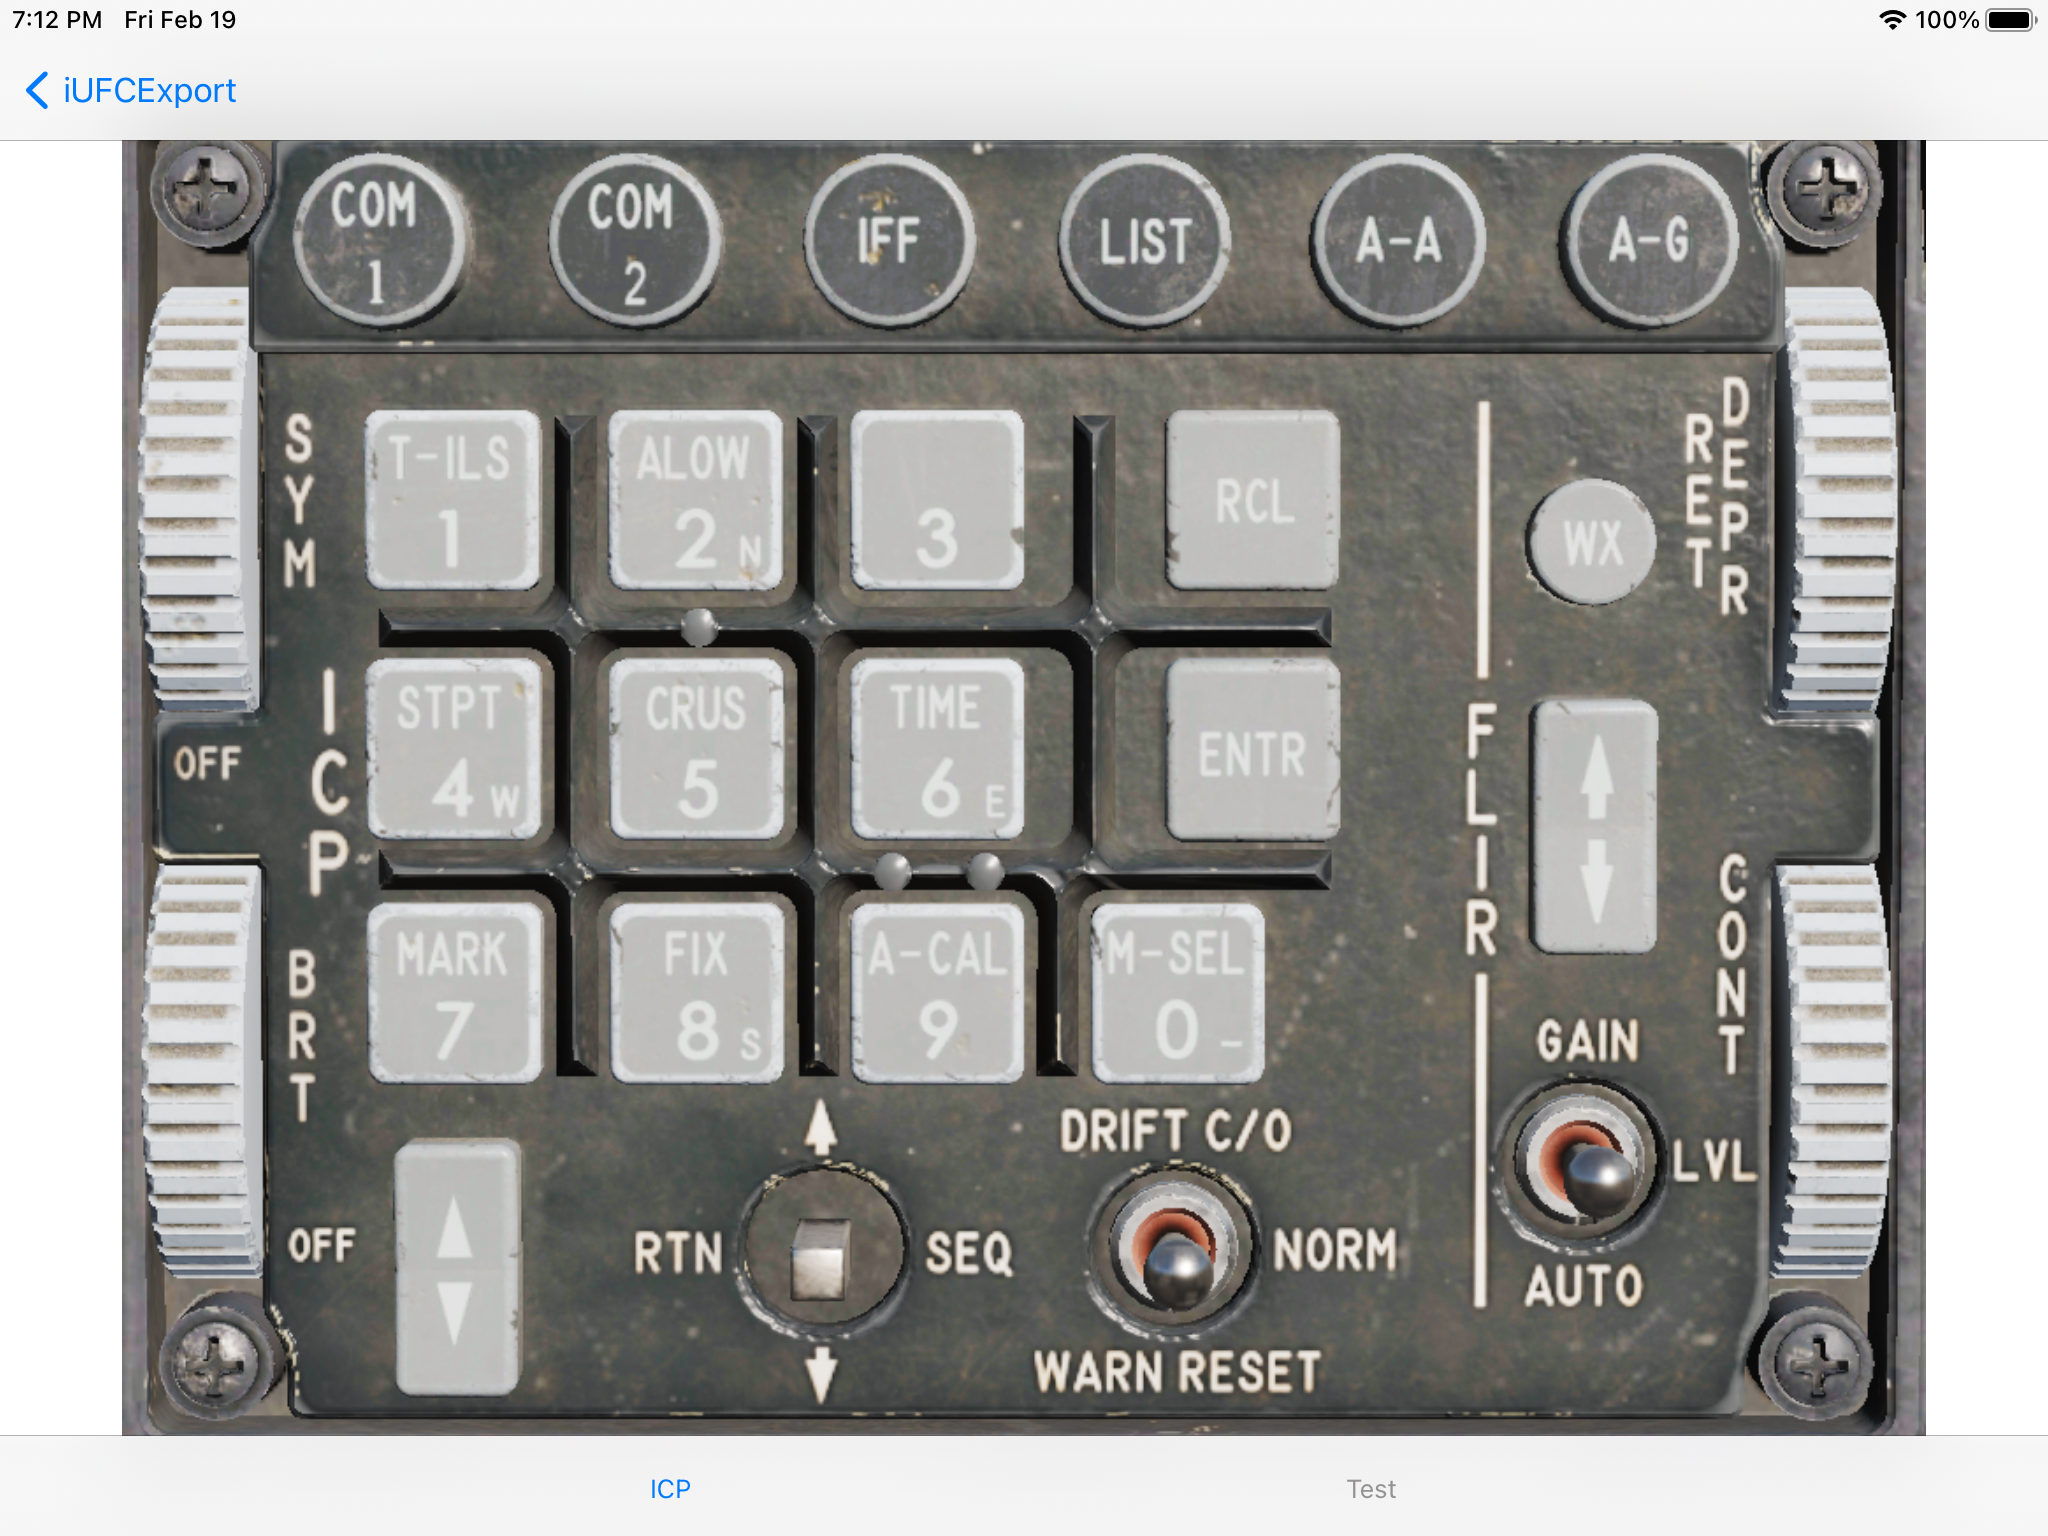
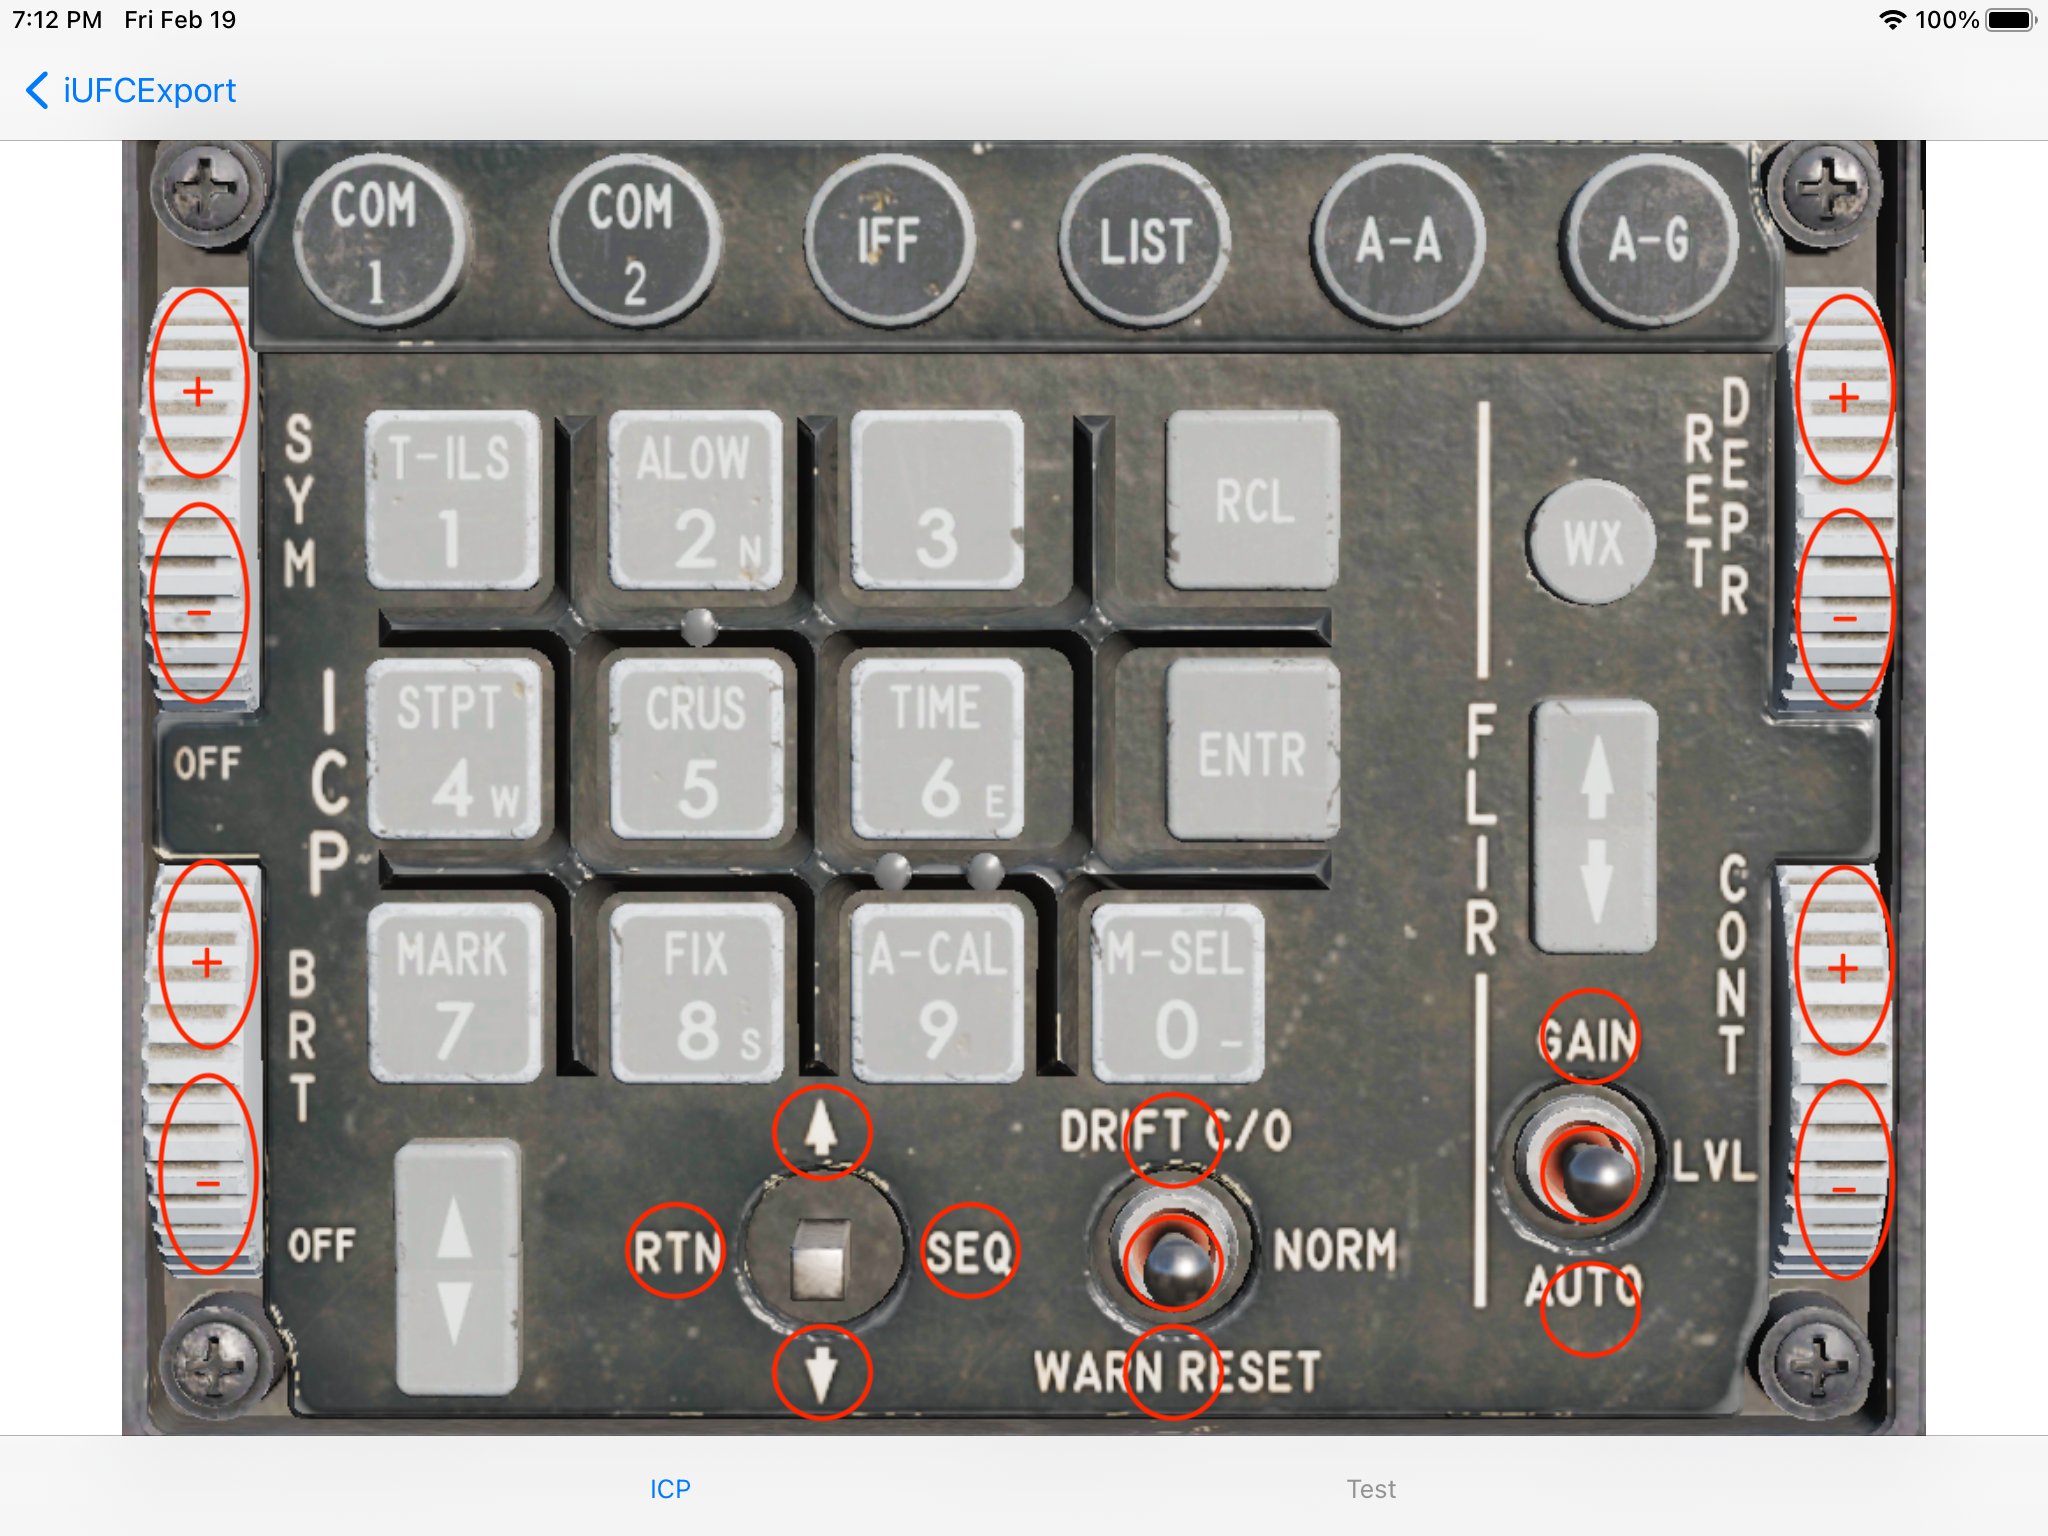
added non-obvious touchable zones to the UFC screenshots

diff --git a/iUFCExport/index.md b/iUFCExport/index.md
@@ -17,29 +17,23 @@ Check [this video](https://www.youtube.com/watch?v=Kx_l9_WEQhs) of iUFCExport in
 
 ## Supported planes and panels
 
+Non-obvious clickable zones are highlighted in red.
+
 ### A-10C UFC
 ![A10C-UFC](./resources/a10c-ufc.png?)
-All buttons can be used.
+All buttons work, including "Master caution" reset.
+"Master caution" light illuminates.
 
 ### F-16C ICP
 ![F16-ICP](./resources/f16-icp.png?)
-All buttons, switches and rotating wheels can be used.
-
-To use a switch, touch in the area towards which you want to push this switch.
-
-To use a rotating wheel, touch its upper area or its lower area to rotate in the corresponding direction.
+All buttons, switches and rotating wheels work.
+The large wheeels (for example SYM or BRT) work but do not animate.
 
 ### F/A-18C UFC
 ![FA18-UFC](./resources/fa18-ufc.png?)
 All buttons, switches and rotating buttons can be used.
 
-To use a switch, touch in the area towards which you want to push this switch.
-
-For rotating buttons, touch in its left or right half to respectively turn it counterclockwise or clockwise.
-
-The COMM channel buttons work like this:
-* touch the COMM channel display to push it
-* touch below or above the COMM channel display to respectively decrease or increase the channel
+All displays are sync'ed with DCS.
 
 ### AV-8BNA UFC and ODUs
 ![AV8-UFC](./resources/av8-ufc.png?)
@@ -47,13 +41,13 @@ All buttons and rotating buttons can be used, except:
 * the 2 volume buttons
 * the brightness button
 
-The COMM channel buttons work like this:
-* touch the button to push it
-* touch below or above the COMM button to respectively decrease or increase the channel
+All displays are sync'ed with DCS.
 
 ### JF-17 UFCP
 ![JF17-UFCP](./resources/jf17-ufcp.png?)
 All buttons can be used, except the 4 potentiometers at the bottom.
+
+All displays are sync'ed with DCS.
 
 ## Next version
 Version 1.4 will add support for the AJS37 CK37 and waypoint panels.
